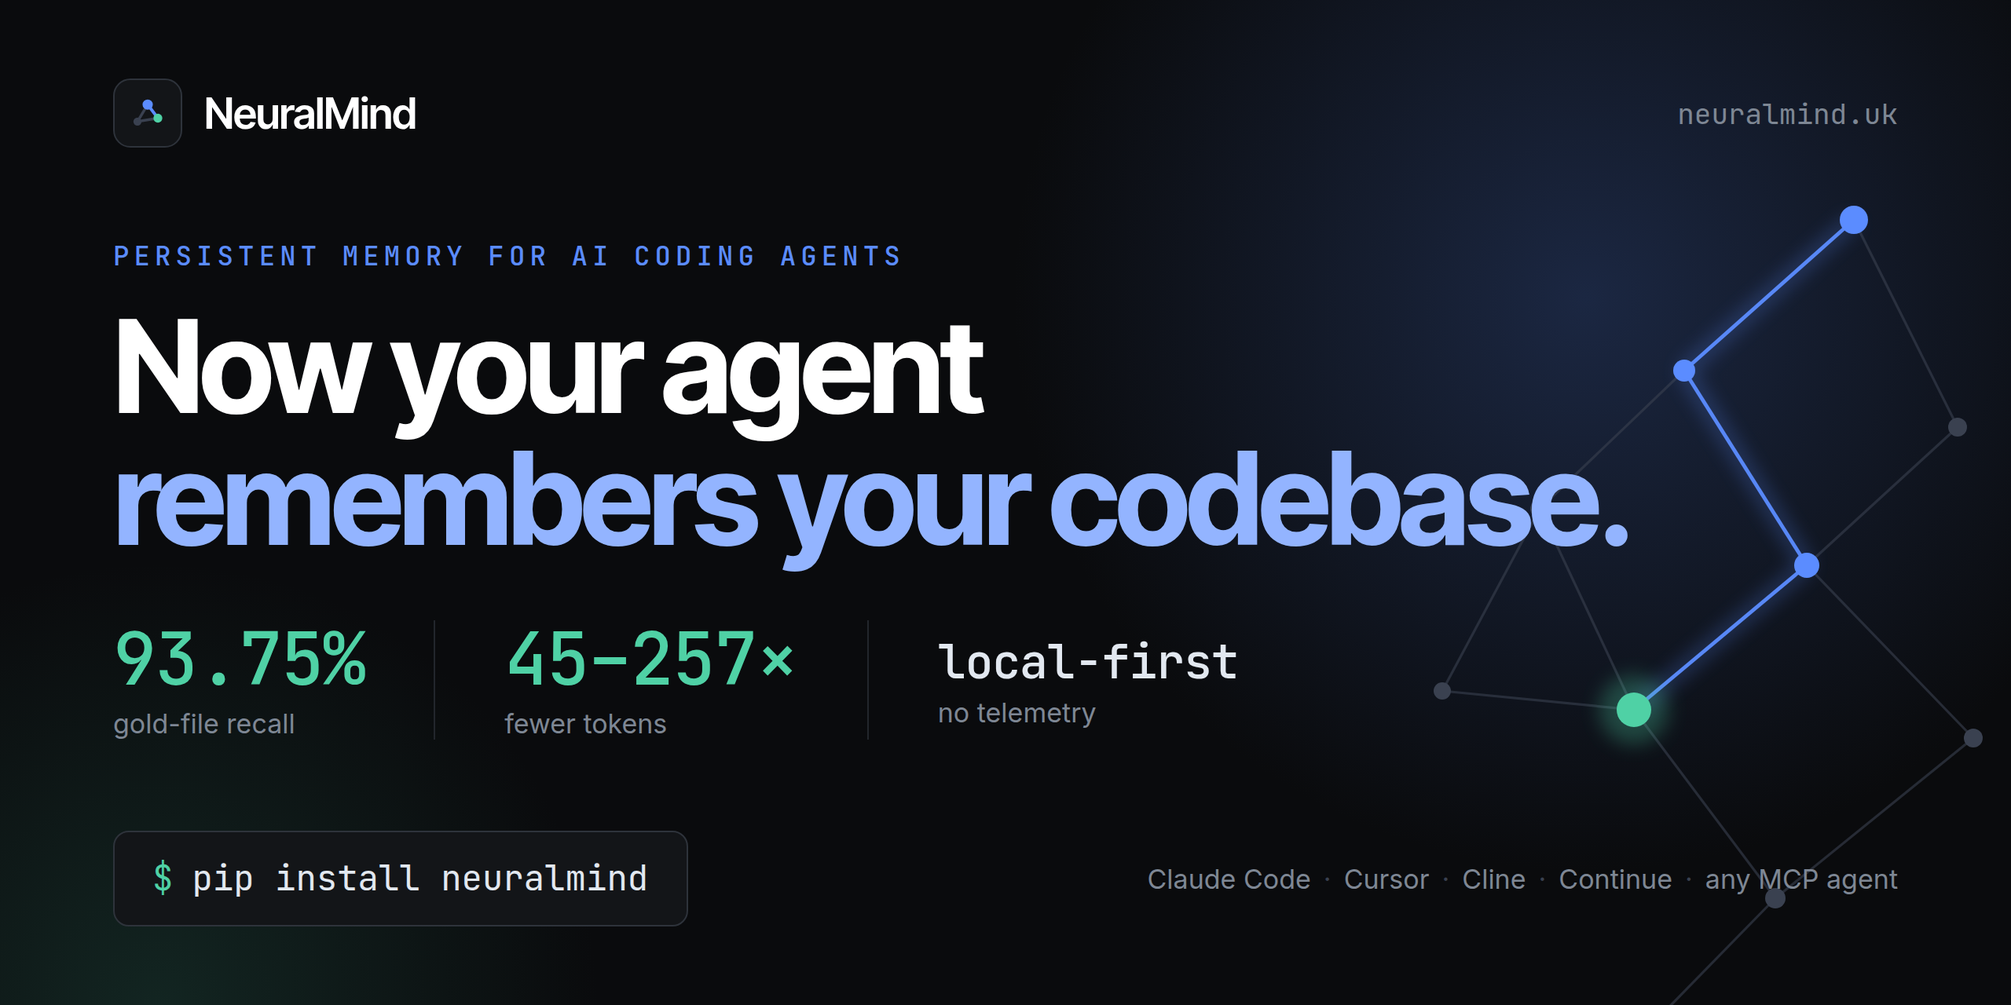
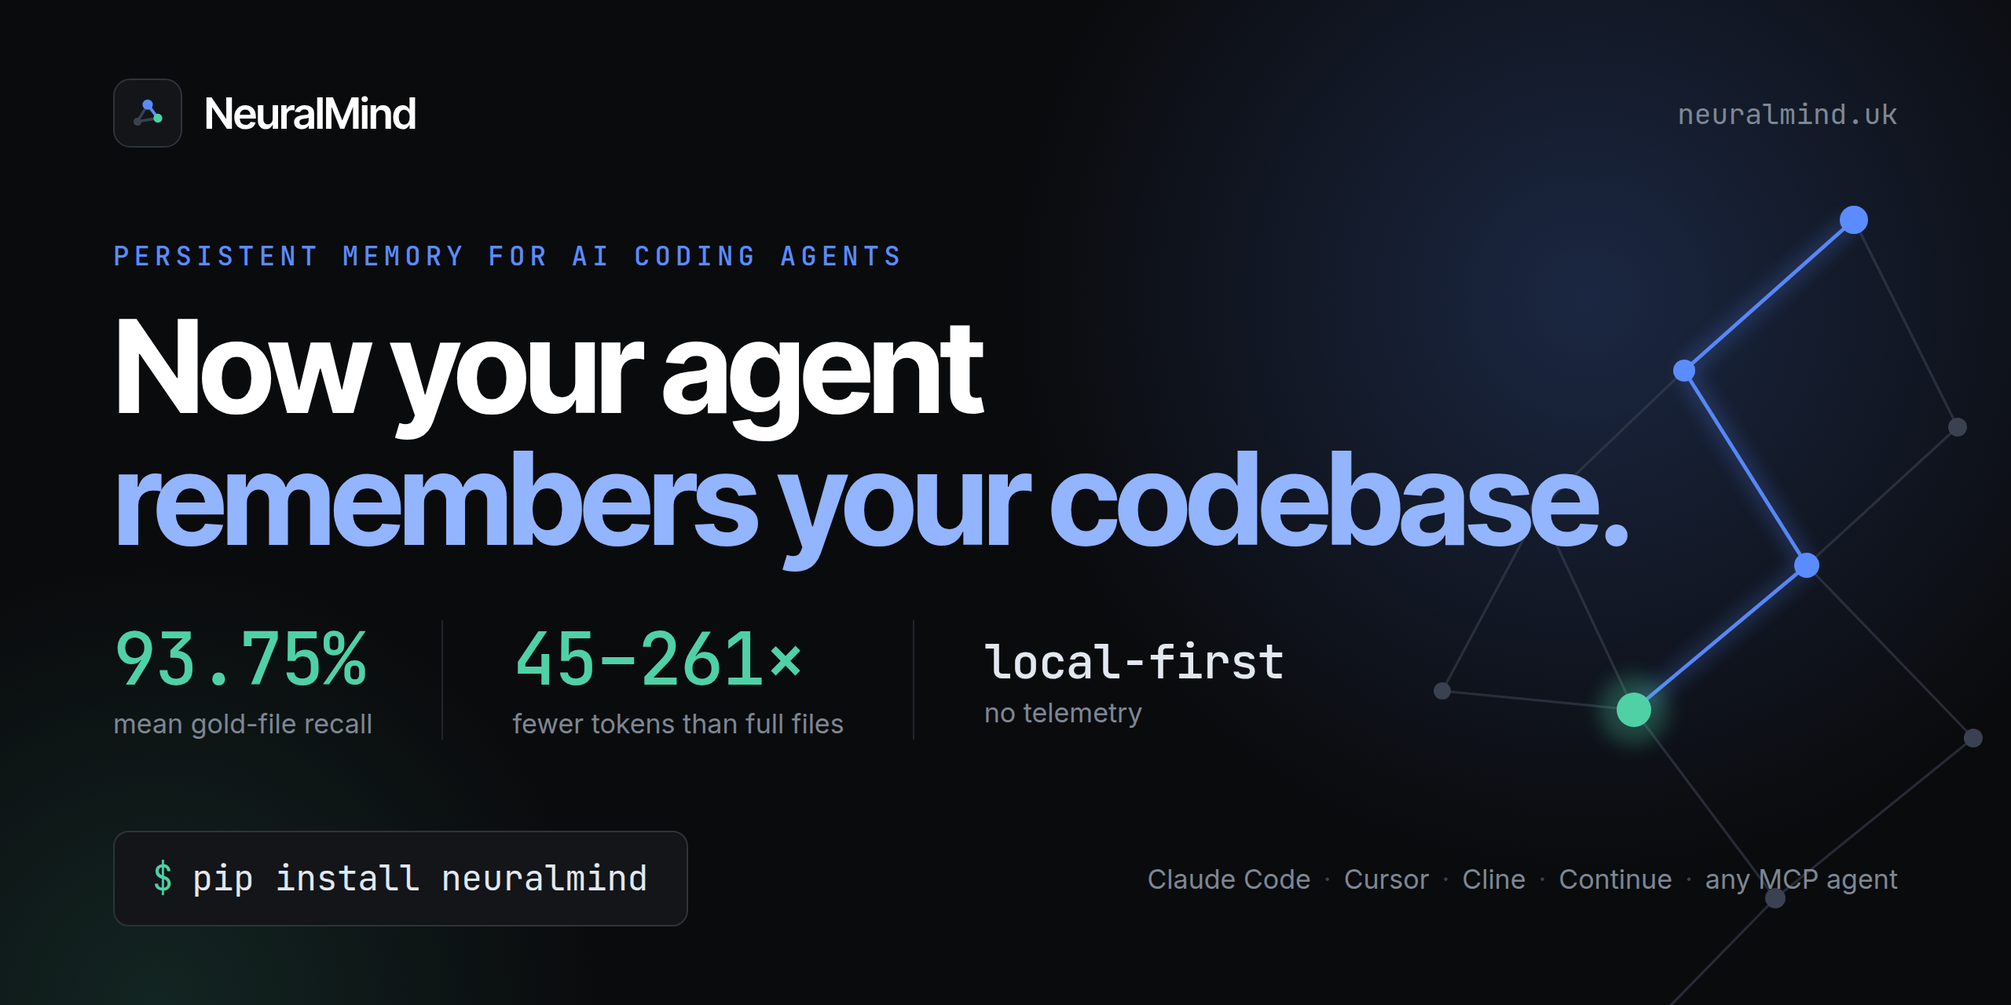
docs: fix the preview images, docs footer and unmeasured multipliers the first pass missed
A sweep of surfaces the guards don't read found copy that contradicted the
corrected pages:

- Link previews. Every docs.neuralmind.uk page declared
  docs/assets/social-preview.png as its og:image: a hand-made card reading
  "40-70x fewer tokens" and "100% local", the unsourced figure the site's
  og-card claims gate was built to stop. The site's own card still read
  45-257x (no longer in site/claims.json, so the gate refused to render).
  card.html now says 45-261x and "mean gold-file recall"; render.mjs writes
  the docs image too, so all three previews come from one gated source; the
  legacy SVG is retired.
- The docs-site footer on every page said "100% local · 12-50× token
  reduction" and "MIT-licensed open source"; the site's web manifest said the
  same. Both now match the site: local-first, no telemetry, the public
  benchmark range, MIT core plus source-available Team modules, and the
  canonical entity.
- "5-10x total/combined reduction" appeared on seven docs surfaces and
  "88-91% smaller" on the tool-output compression; nothing in the repo
  measures either (the site's own deep-dive already says so). They now
  describe what the hooks do, point at `neuralmind benchmark .`, and quote
  the measured public-benchmark range where a number is wanted.
- Privacy absolutes: the docs FAQ answered "No." with "no cloud APIs"
  (opt-in LLM seeding exists), a use-case table and the Cody comparison said
[…]

Changed region(s): [[0.25, 0.625, 0.4062, 0.75], [0.4688, 0.625, 0.625, 0.7188], [0.0625, 0.6875, 0.1875, 0.75]]

diff --git a/docs/about.html b/docs/about.html
@@ -92,7 +92,7 @@
             <h3>Hebbian synapse learning</h3>
             <p>Every co-edit, query, and tool call strengthens associations between code nodes. The longer you use NeuralMind on a codebase, the better it gets at predicting what context you need.</p>
             <h3>Tool-output compression</h3>
-            <p>PostToolUse hooks for Claude Code compress Read, Bash, and Grep output before the agent sees it — typically 88–91% smaller.</p>
+            <p>PostToolUse hooks for Claude Code compress Read, Bash, and Grep output before the agent sees it: a large Read becomes a structural skeleton, Bash keeps errors plus the tail, Grep is capped at 25 matches, and <code>neuralmind last</code> recovers anything trimmed. Not yet benchmarked, so no percentage here.</p>
         </section>
         <section>
             <h2>Supply chain</h2>

diff --git a/docs/_layouts/default.html b/docs/_layouts/default.html
@@ -269,7 +269,7 @@
             <a href="https://github.com/dfrostar/neuralmind/discussions">Discussions</a>
             <a href="/about.html">About</a>
         </div>
-        <p class="foot-meta">© {{ site.time | date: '%Y' }} NeuralMind · US-based. MIT-licensed open source, not affiliated with NeuralMind.ai. &nbsp;🔐 100% local · ⚡ 12-50× token reduction · ✅ NIST AI RMF · 🛠 Works with any MCP agent</p>
+        <p class="foot-meta">© 2025–{{ site.time | date: '%Y' }} Cheval-Volant LLC, d/b/a NeuralMind · US-based · MIT core, source-available Team modules · Not affiliated with NeuralMind.ai. &nbsp;🔐 Local-first, no telemetry · ⚡ 45–261× fewer tokens than full files on the <a href="/benchmarks/">public benchmark</a> · ✅ NIST AI RMF mapped · 🛠 Works with any MCP agent</p>
     </div>
 </footer>
 

diff --git a/scripts/og-card/card.html b/scripts/og-card/card.html
@@ -165,11 +165,11 @@
     <div class="stats">
       <div class="stat">
         <div class="num">93.75%</div>
-        <div class="lbl">gold-file recall</div>
+        <div class="lbl">mean gold-file recall</div>
       </div>
       <div class="stat">
-        <div class="num">45&#8211;257&#215;</div>
-        <div class="lbl">fewer tokens</div>
+        <div class="num">45&#8211;261&#215;</div>
+        <div class="lbl">fewer tokens than full files</div>
       </div>
       <div class="stat quiet">
         <div class="num">local-first</div>

diff --git a/tests/test_docs_claims.py b/tests/test_docs_claims.py
@@ -68,6 +68,13 @@ PUBLISHED_GLOBS = (
     # index — read by models in other people's runtimes, where no CI of ours
     # can reach it. Same argument as docs/llms.txt above.
     "skills/*/SKILL.md",
+    # The docs-site layout renders its footer on every docs.neuralmind.uk page,
+    # and it carried "100% local · 12-50× token reduction" long after the pages
+    # themselves were corrected, because no guard read the template.
+    "docs/_layouts/*.html",
+    # GitHub issue forms are public copy too: the community-benchmark form told
+    # contributors their "code never leaves your machine".
+    ".github/ISSUE_TEMPLATE/*.yml",
 )
 
 # A post may legitimately *quote* a forbidden phrase in order to correct it —
@@ -117,7 +124,9 @@ FORBIDDEN = [
         "Absolute claim — reword to NeuralMind's own local processing.",
     ),
     (
-        re.compile(r"\bnothing\s+leaves?\s+your\b", re.IGNORECASE),
+        # "the" as well as "your": "Nothing leaves the machine" shipped in a
+        # comparison table while this pattern only knew the second person.
+        re.compile(r"\bnothing\s+leaves?\s+(your|the)\b", re.IGNORECASE),
         (
             "Absolute privacy claim about the whole workflow — inaccurate. "
             "Scope the claim to NeuralMind's own behavior."
@@ -297,6 +306,8 @@ def test_guard_actually_matches_a_known_bad_phrase() -> None:
     assert any(p.search(bad) for p, _ in FORBIDDEN)
     # The variant that shipped on llms.txt while the narrower pattern watched.
     assert any(p.search("100% local: no code leaves the machine") for p, _ in FORBIDDEN)
+    # The comparison-table variant, in the third person.
+    assert any(p.search("| Nothing leaves the machine |") for p, _ in FORBIDDEN)
     # The phrase this guard itself used to prescribe, false since the embedder
     # started fetching its own model. Both spellings that shipped.
     assert any(p.search("NeuralMind makes no network calls of its own") for p, _ in FORBIDDEN)

diff --git a/docs/wiki/Use-Cases.md b/docs/wiki/Use-Cases.md
@@ -11,7 +11,7 @@ Canonical pages live at [docs/use-cases/](https://github.com/dfrostar/neuralmind
 | [Claude Code user](https://github.com/dfrostar/neuralmind/blob/main/docs/use-cases/claude-code.md) | You use Claude Code daily | Two-phase optimization: retrieval + PostToolUse compression |
 | [Cost optimization](https://github.com/dfrostar/neuralmind/blob/main/docs/use-cases/cost-optimization.md) | You need to reduce and *report* LLM spend | Baseline → measure → stakeholder-ready report |
 | [Any LLM (ChatGPT / Gemini / local)](https://github.com/dfrostar/neuralmind/blob/main/docs/use-cases/any-llm.md) | You use a non-MCP chat or mixed models | Copy-paste + CLI-piped context into any model |
-| [Offline / regulated work](https://github.com/dfrostar/neuralmind/blob/main/docs/use-cases/offline-regulated.md) | You're on air-gapped or regulated systems | 100% local, zero telemetry, compliance properties table |
+| [Offline / regulated work](https://github.com/dfrostar/neuralmind/blob/main/docs/use-cases/offline-regulated.md) | You're on air-gapped or regulated systems | Local-first, no telemetry, compliance properties table |
 | [Growing monorepo](https://github.com/dfrostar/neuralmind/blob/main/docs/use-cases/growing-monorepo.md) | Your codebase grows fast and drifts often | Three freshness strategies + large-repo tuning |
 | [Slim & sovereign: ChromaDB-free local stack](https://github.com/dfrostar/neuralmind/blob/main/docs/use-cases/chromadb-free-local.md) | Security-sensitive teams, tiny-footprint installs (v0.21.0+) | Embed + search with zero ChromaDB — smaller deps, 8–16× smaller index, fewer advisories |
 | [Team memory via CI auto-index *(v0.38.0+)*](https://github.com/dfrostar/neuralmind/blob/main/docs/use-cases/ci-auto-index.md) | You want every developer's NeuralMind index to stay fresh automatically | On-push GitHub Action rebuilds incrementally + commits shared team memory bundle |
@@ -22,9 +22,9 @@ Canonical pages live at [docs/use-cases/](https://github.com/dfrostar/neuralmind
 
 | If your goal is… | Do this | Expected outcome |
 |---|---|---|
-| **Cut LLM spend** on code Q&A | `install-hooks` + use `query` for questions | 5–10× total reduction vs baseline agent |
+| **Cut LLM spend** on code Q&A | `install-hooks` + use `query` for questions | Fewer tokens per code question — measure yours with `neuralmind benchmark .` |
 | **Faster, more grounded** agent responses | `wakeup` at session start → `query` / `skeleton` during | Fewer hallucinations; less re-exploration |
-| **Keep all code local** | Default install — no extra config | 100% offline; nothing leaves the machine |
+| **Keep all code local** | Default install — no extra config | No telemetry; no repository content transmitted by default; works offline after the first build |
 | **Work across Claude + GPT + Gemini** | Build once, pipe output into any model | Model-agnostic |
 | **Make retrieval adapt** to your team's patterns | Enable memory + `install-hooks` (+ optional `neuralmind watch .`) + `neuralmind_feedback` MCP tool | The synapse layer learns from usage automatically; positive/negative feedback sharpens associations |
 | **Measure savings** for a stakeholder | `neuralmind benchmark . --json` | Per-query tokens, reduction ratios |

diff --git a/docs/assets/README.md b/docs/assets/README.md
@@ -1,37 +1,19 @@
 # docs/assets
 
-Static visual assets for the repository (social preview, etc.).
+Static visual assets for the docs site (docs.neuralmind.uk).
 
-## `social-preview.svg` — GitHub Social Preview
+## `social-preview.png` — docs site OG image
 
-The 1280 × 640 image used for GitHub's social preview card (shown on LinkedIn, Twitter/X, Slack, and other link-unfurl surfaces when the repo URL is shared).
+The `og:image` / `twitter:image` that `_layouts/default.html`, `about.html` and
+`benchmarks/index.html` declare, shown when a docs page is shared on LinkedIn,
+X, Slack and other link-unfurl surfaces.
 
-### How to update it
+**Do not edit or hand-make this file.** It is rendered from the same source as
+the marketing site's card and the GitHub social preview —
+[`scripts/og-card/card.html`](../../scripts/og-card/card.html) — by
+`node scripts/og-card/render.mjs`, which refuses to render any number that is
+not in `site/claims.json`. See [`scripts/og-card/README.md`](../../scripts/og-card/README.md).
 
-Edit the SVG directly. Tweak the headline, supported tools, or palette — everything is inline, no external fonts or assets.
-
-### How to upload it
-
-GitHub requires a **PNG** upload (not SVG). Convert once, then drop the PNG into **Settings → General → Social preview**.
-
-**Any of these will work:**
-
-```bash
-# librsvg (fast, good fidelity)
-rsvg-convert -w 1280 -h 640 docs/assets/social-preview.svg -o social-preview.png
-
-# Inkscape (handles any SVG feature)
-inkscape docs/assets/social-preview.svg --export-type=png --export-filename=social-preview.png -w 1280 -h 640
-
-# ImageMagick
-magick -background none -density 144 docs/assets/social-preview.svg -resize 1280x640 social-preview.png
-
-# Or just open the SVG in any browser and "Save as image"
-```
-
-### Design notes
-
-- **Safe zone:** important content is kept inside the center 1100 × 580 region — some unfurl surfaces crop the edges.
-- **Palette:** deep indigo/purple background, cyan → mint accent on the headline number, muted lavender for secondary text.
-- **Typography:** Inter → Segoe UI → system-ui fallback stack. Renders fine with sans-serif fallback if Inter isn't installed locally; install Inter for the best output.
-- **No external references:** fully self-contained, no network fetches at render time.
+The hand-made SVG that used to live here was retired on 2026-09-27: after the
+site's card was made reproducible, this copy kept shipping an unsourced
+"40–70× fewer tokens" and "100% local" on every docs page's link preview.

diff --git a/docs/wiki/Usage-Guide.md b/docs/wiki/Usage-Guide.md
@@ -22,9 +22,9 @@
 **NeuralMind is a two-phase token optimizer for AI coding agents.**
 
 - **Phase 1 — Retrieval.** A 4-layer progressive-disclosure index surfaces ~800 tokens of structured context per code question, instead of loading 50,000+ tokens of raw source. Works with Claude, GPT-4, Gemini, and local models.
-- **Phase 2 — Consumption.** PostToolUse hooks (Claude Code) compress `Read`, `Bash`, and `Grep` output **before the agent sees it** — typically 88–91% smaller.
+- **Phase 2 — Consumption.** PostToolUse hooks (Claude Code) compress `Read`, `Bash`, and `Grep` output **before the agent sees it** — a large `Read` becomes a structural skeleton, `Bash` keeps errors plus the tail, `Grep` is capped at 25 matches, and `neuralmind last` recovers anything trimmed. No benchmark measures this phase yet, so we don't quote a percentage for it.
 
-Combined effect: **5–10× total reduction** vs baseline agent usage. 100% local, offline, model-agnostic. See [Use Cases](Use-Cases) for persona-matched walkthroughs.
+Measured effect: on the [public benchmark](https://github.com/dfrostar/neuralmind/blob/main/docs/benchmarks/public.md) the retrieval phase uses **45–261× fewer tokens than pasting every source file**, at 93.75% mean gold-file recall — measure your own repo with `neuralmind benchmark .`. Local-first, works offline after the first build, model-agnostic. See [Use Cases](Use-Cases) for persona-matched walkthroughs.
 
 ### The Core Problem
 
@@ -492,9 +492,8 @@ points to top-k hit rate while the synapse layer alone moves it (+3.5 to
 the synapse layer learns from your usage. Inspect what's been learned with
 `neuralmind stats .` or `neuralmind memory inspect .`. See the
 [Learning Guide](Learning-Guide) for details.
-- Better relevance = smaller context needed = more token savings
 
-**Privacy**: 100% local analysis. No data sent anywhere. Patterns file is just JSON in your project.
+**Privacy**: synapse learning runs on your machine and sends no telemetry; the learned weights live in `.neuralmind/synapses.db` inside your project.
 
 #### `neuralmind benchmark`
 

diff --git a/docs/comparisons/vs-headroom.md b/docs/comparisons/vs-headroom.md
@@ -11,7 +11,7 @@ description: "Honest comparison of NeuralMind and Headroom (chopratejas/headroom
 > of those tokens from being fetched in the first place — semantic
 > retrieval answers code questions in ~800 tokens instead of 50,000+
 > (12-50× on the retrieval side in real-repo field reports) — and additionally compresses
-> the tool outputs that do flow (~88–91%), while remembering your codebase
+> the tool outputs that do flow, while remembering your codebase
 > across sessions. They overlap on tool-output compression, and they
 > compose. If you only want compression, Headroom is the more general and
 > more mature tool — use it. Assessed June 2026; both projects move fast,
@@ -52,13 +52,13 @@ answered in ~800 tokens of *retrieved* context instead of the agent
 reading whole files; next session the agent boots already knowing the
 shape of your code. Tool-output compression (the part that overlaps with
 Headroom) is one feature of that pipeline — PostToolUse hooks in Claude
-Code that shrink `Read`/`Bash`/`Grep` output by ~88–91%, with a recovery
+Code that shrink `Read`/`Bash`/`Grep` output (not yet benchmarked), with a recovery
 cache for the dropped middle.
 
 | Dimension | Headroom | NeuralMind |
 |---|---|---|
 | Core mechanism | Compress assembled context in flight | Retrieve less context from a semantic index; remember it across sessions |
-| Compression surface | Tool outputs, logs, RAG chunks, files, conversation history, images — any provider | `Read`/`Bash`/`Grep` outputs in Claude Code (~88–91%) |
+| Compression surface | Tool outputs, logs, RAG chunks, files, conversation history, images — any provider | `Read`/`Bash`/`Grep` outputs in Claude Code (not yet benchmarked) |
 | Conversation-history compression | Yes | No |
 | KV-cache alignment | Yes (CacheAligner) | No |
 | Reversible compression | Yes, generalized (CCR + retrieve tool) | Yes, for its own compressed tool outputs (recovery cache) |

diff --git a/docs/wiki/FAQ.md b/docs/wiki/FAQ.md
@@ -288,11 +288,12 @@ neuralmind-mcp . --rbac-enabled \
 
 ### "Does NeuralMind send data to external servers?"
 
-**No.** 
-- ✅ 100% local processing
-- ✅ No cloud APIs
+**Not by default.**
+- ✅ Indexing, embedding, retrieval and synapse learning run on your machine
 - ✅ No telemetry
-- ✅ No repository content transmitted (one first-build model download aside, pre-seedable)
+- ✅ No repository content transmitted by default — the one default outbound request is a public embedding-model download on first build, pre-seedable via `NEURALMIND_ONNX_MODEL_DIR` for air-gapped installs
+- ⚠ One opt-in feature, off by default: `NEURALMIND_LLM_SEED=1` (plus your own `ANTHROPIC_API_KEY`) sends README and architecture-doc prose to Anthropic to seed doc synapses
+- Your agent still sends the context slice it selects to its own model provider; NeuralMind makes that slice smaller but does not control it
 
 ---
 
@@ -526,10 +527,10 @@ Coming in v1.0 (Q1 2027):
 | Feature | NeuralMind | Cursor |
 |---------|-----------|--------|
 | Works everywhere | ✅ Yes | ❌ Cursor only |
-| 100% offline | ✅ Yes | ❌ Cloud |
-| Token reduction | 5-10× | 2-3× |
-| Cost | Free | Paid (Cursor) |
-| Open source | ✅ Yes | ❌ No |
+| Works offline | ✅ Yes, once the first build has cached the embedding model | ❌ Cloud |
+| Token reduction | Measured: 45–261× vs. pasting every source file ([public benchmark](https://github.com/dfrostar/neuralmind/blob/main/docs/benchmarks/public.md)) | Not measured by us |
+| Cost | Free at 1 seat | Paid (Cursor) |
+| Open source | ✅ MIT core | ❌ No |
 
 ---
 

diff --git a/docs/use-cases/README.md b/docs/use-cases/README.md
@@ -9,7 +9,7 @@ Walkthroughs for the most common "what do I actually do?" questions, organized b
 | [Claude Code user](./claude-code.md) | You use Claude Code daily and want full two-phase optimization | Cheapest + smartest agent sessions |
 | [Cost optimization](./cost-optimization.md) | Teams or solos watching LLM spend climb | Measure, reduce, and report savings — `neuralmind savings --cost` prices them in dollars (v0.45.0+) |
 | [Any LLM (ChatGPT / Gemini / local)](./any-llm.md) | You use non-MCP chats or a model-agnostic workflow | Get NeuralMind context into any chat window |
-| [Offline / regulated work](./offline-regulated.md) | Regulated industries, air-gapped machines | 100% local retrieval with zero telemetry |
+| [Offline / regulated work](./offline-regulated.md) | Regulated industries, air-gapped machines | Local retrieval, no telemetry |
 | [Growing monorepo](./growing-monorepo.md) | Codebase where old context goes stale fast | Keep the index fresh with minimal effort |
 | [Multi-agent codebase](./multi-agent.md) | You use multiple AI tools (Claude Code + Cursor + Hermes + OpenClaw) on the same project | One shared associative memory across every agent; v0.6.0 live graph shows the union |
 | **[Slim & sovereign: ChromaDB-free local stack](./chromadb-free-local.md)** | **Security-sensitive teams, tiny-footprint installs (v0.21.0+)** | **Embed + search with zero ChromaDB — smaller deps, smaller index, fewer advisories** |

diff --git a/docs/wiki/Home.md b/docs/wiki/Home.md
@@ -330,9 +330,9 @@ sections.
 A two-phase token optimizer for AI coding agents.
 
 - **Phase 1 — Retrieval.** A 4-layer progressive-disclosure index surfaces ~800 tokens of structured context for any code question, instead of loading 50,000+ tokens of raw source.
-- **Phase 2 — Consumption.** PostToolUse hooks (Claude Code) compress `Read`, `Bash`, and `Grep` output **before the agent sees it** — typically 88–91% smaller.
+- **Phase 2 — Consumption.** PostToolUse hooks (Claude Code) compress `Read`, `Bash`, and `Grep` output **before the agent sees it** — a large `Read` becomes a structural skeleton, `Bash` keeps errors plus the tail, `Grep` is capped at 25 matches, and `neuralmind last` recovers anything trimmed. No benchmark measures this phase yet, so we don't quote a percentage for it.
 
-Combined effect: **12–50× retrieval token reduction** (5.1× measured in CI on the fixture at v4.3.4), offline and model-agnostic.
+Measured effect: **45–261× fewer retrieval tokens than pasting every source file** on the [public benchmark](https://github.com/dfrostar/neuralmind/blob/main/docs/benchmarks/public.md), at 93.75% mean gold-file recall; on private repos `neuralmind benchmark .` has reported 12–50× against its fixed 50K-token baseline; 5.1× on the tiny CI fixture at v4.3.4 (CI fails below 4.0×). Works offline after the first build; model-agnostic.
 
 ### The core problem
 

diff --git a/docs/comparisons/vs-cody.md b/docs/comparisons/vs-cody.md
@@ -10,11 +10,11 @@ Sourcegraph Cody is a code AI assistant backed by Sourcegraph's server-side code
 |---|---|---|
 | Deployment | SaaS or self-hosted Sourcegraph server | Local CLI/MCP, no server |
 | Index scope | Cross-repo, organization-wide | Single repo, per-project |
-| Hosting | Requires Sourcegraph infra | Pure local, offline |
-| Data flow | Code may be sent to Sourcegraph or your Sourcegraph instance | Nothing leaves the machine |
+| Hosting | Requires Sourcegraph infra | Local; works offline after the first build |
+| Data flow | Code may be sent to Sourcegraph or your Sourcegraph instance | No telemetry and no repository content sent by default (your agent still sends the slice it selects to its own model) |
 | Agent coverage | Cody clients (VS Code/JetBrains) | Any MCP-compatible agent or plain CLI |
 | Tool-output compression | No | Yes (PostToolUse hooks) |
-| License | Proprietary (open-core) | MIT |
+| License | Proprietary (open-core) | MIT core, source-available Team modules |
 | Best fit | Large orgs with many repos | Individual developers + single-repo teams |
 | Install methods | Sourcegraph server + Cody editor extension | `pip` / `pipx` / `uv` / Docker / source — no server to run |
 
